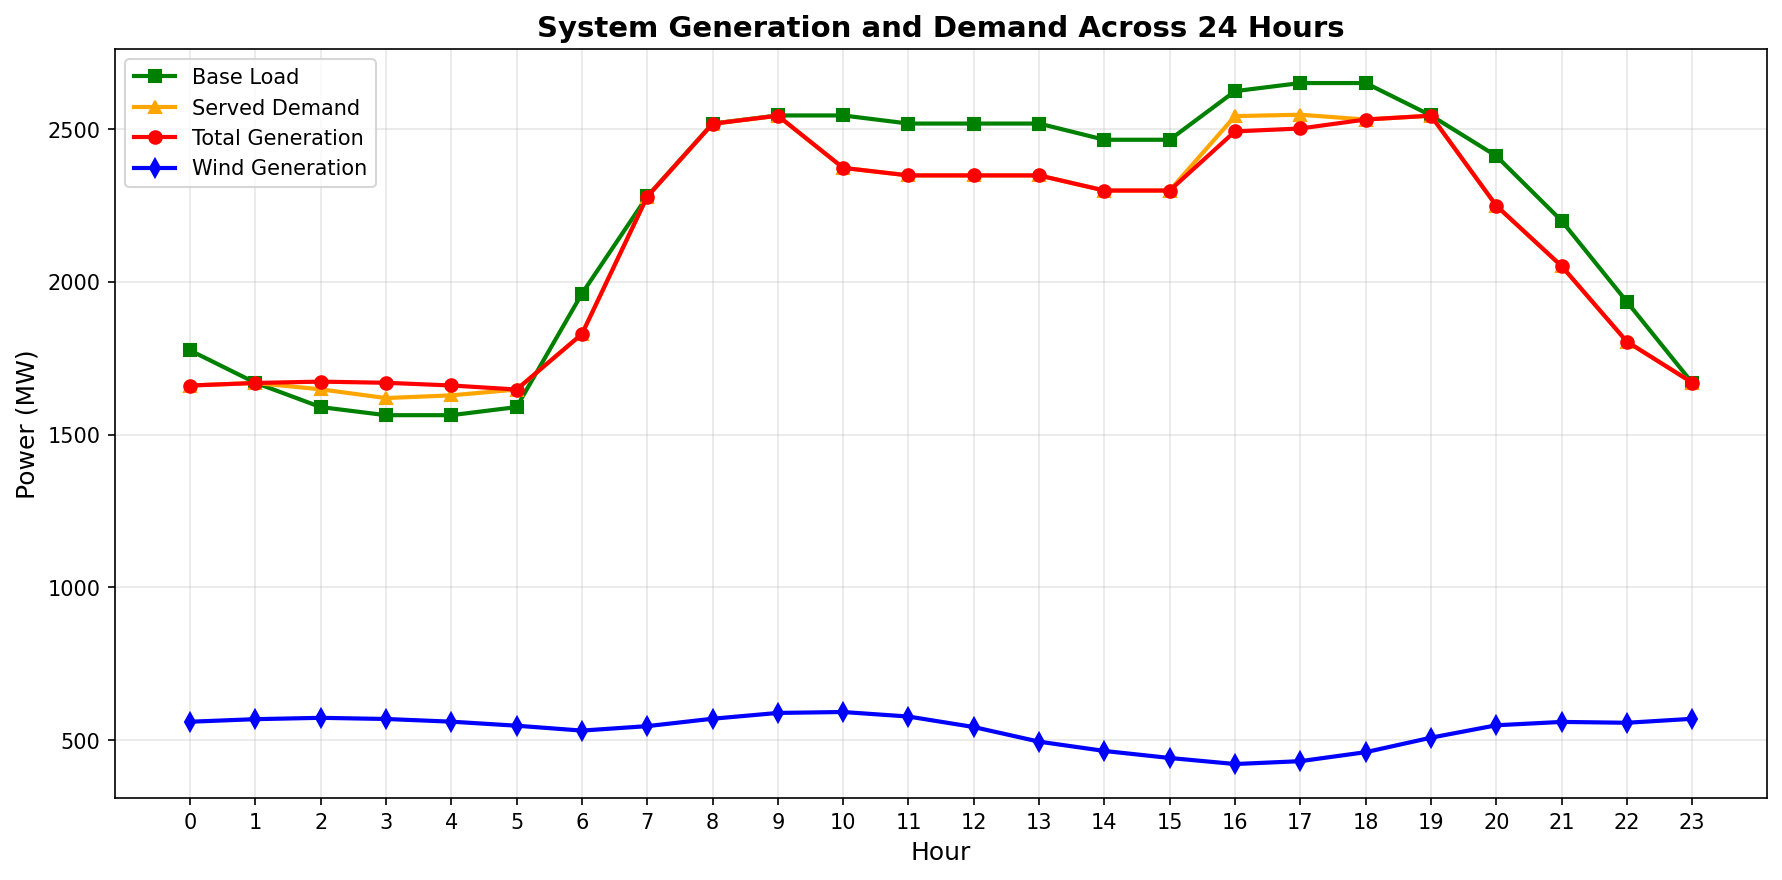
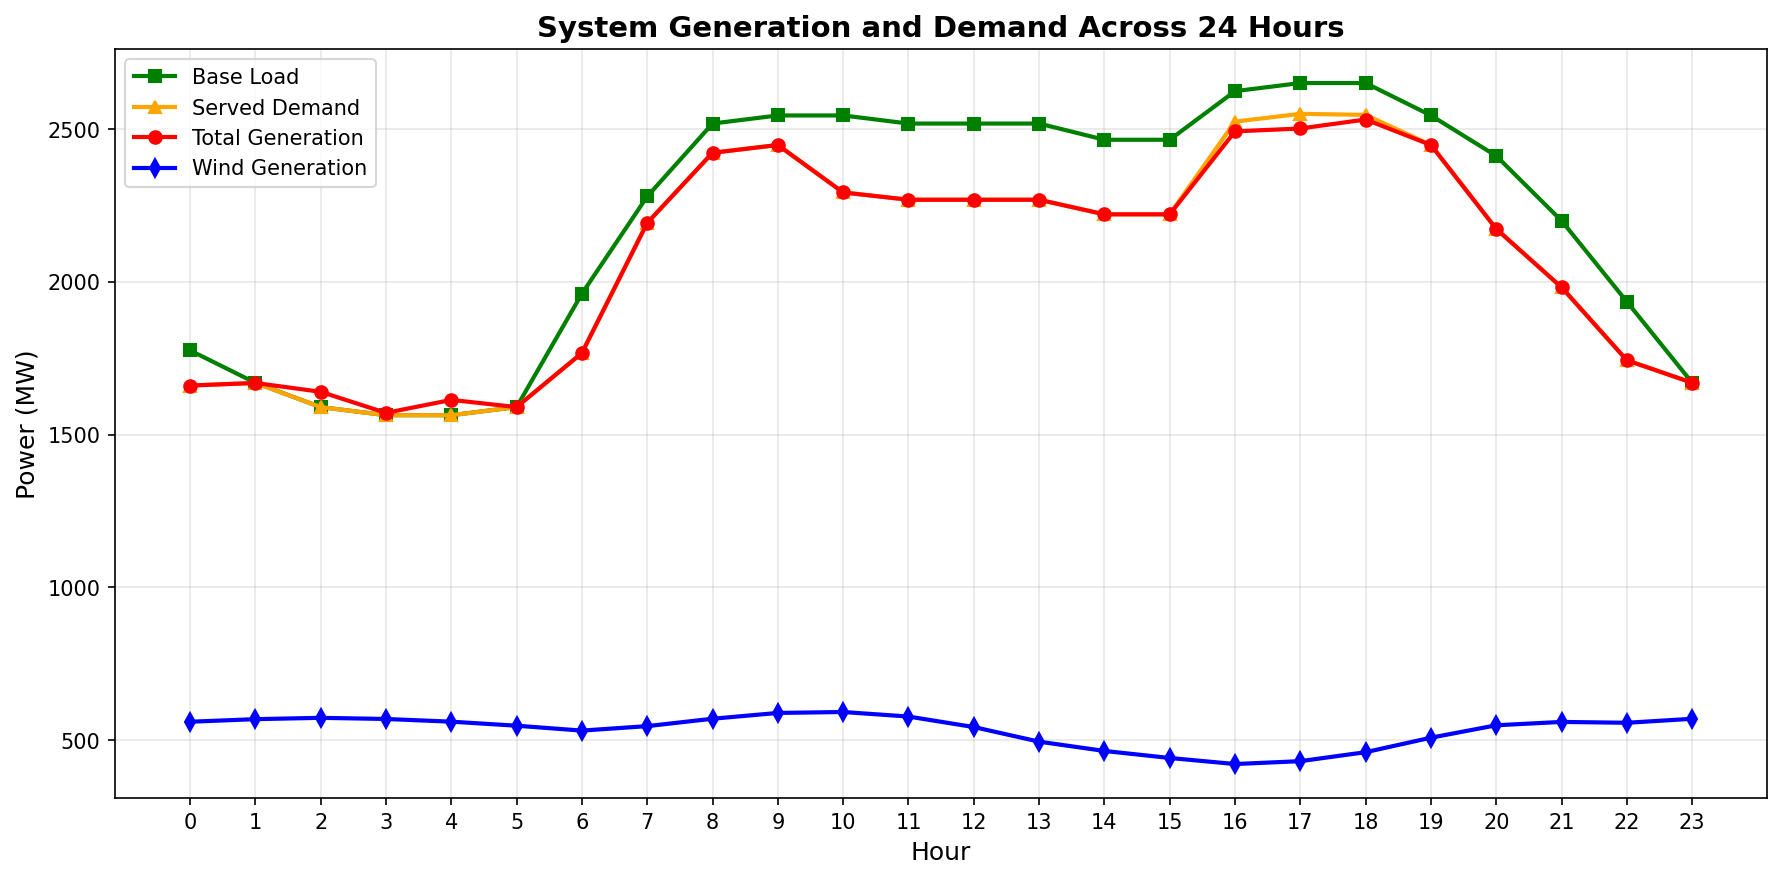
csv files for the outputs of task 1 and 2

diff --git a/Assignment_step2.py b/Assignment_step2.py
@@ -178,7 +178,7 @@ def build_multi_hour_input_data(
             demand_at_node = load_capacity[t] * load_percentages[node]
             if node in elastic_nodes:
                 min_qty = 0
-                max_qty = demand_at_node * 1.10
+                max_qty = demand_at_node
             else:
                 min_qty = demand_at_node
                 max_qty = demand_at_node
@@ -367,7 +367,7 @@ plt.title('Market Clearing Price Across 24 Hours', fontsize=14, fontweight='bold
 plt.grid(True, alpha=0.3)
 plt.xticks(range(TIME_STEPS))
 plt.tight_layout()
-plt.savefig(plots_dir / 'market_clearing_price', dpi=150, bbox_inches='tight')
+plt.savefig(plots_dir / 'market_clearing_price.png', dpi=150, bbox_inches='tight')
 plt.close()
 
 # Plot 2: Generation and demand
@@ -412,4 +412,68 @@ plt.legend()
 plt.xticks(hours_plot)
 plt.tight_layout()
 plt.savefig(plots_dir / 'battery_SOC.png', dpi=150, bbox_inches='tight')
-plt.close()
+plt.close() 
+
+# ── 1. HOURLY RESULTS ───────────────────────────────────────────────────────
+hourly_rows = []
+total_op_cost = 0.0
+
+for t in range(TIME_STEPS):
+    mcp      = multi_hour_model.results.optimal_duals.get(f'balance constraint at hour {t}', 0)
+    served   = sum(multi_hour_model.results.variables.get(f'demand of load {j} at hour {t}', 0) for j in LOADS)
+    gen_conv = sum(multi_hour_model.results.variables.get(f'production of generator {g} at hour {t}', 0) for g in GENERATORS)
+    gen_wind = sum(multi_hour_model.results.variables.get(f'production of generator {g} at hour {t}', 0) for g in WINDTURBINES)
+    charge   = multi_hour_model.results.variables.get(f'battery charge at hour {t}', 0)
+    discharge= multi_hour_model.results.variables.get(f'battery discharge at hour {t}', 0)
+    soc      = multi_hour_model.results.variables.get(f'battery SOC at hour {t}', 0)
+
+    # Operating cost contribution of this hour (conventional only, wind cost = 0)
+    for g in GENERATORS:
+        p   = multi_hour_model.results.variables.get(f'production of generator {g} at hour {t}', 0)
+        total_op_cost += generators_combined['cost'].iloc[g] * p
+
+    hourly_rows.append({
+        'hour'        : t + 1,
+        'MCP_EUR_MWh' : round(mcp,      4),
+        'served_MW'   : round(served,   4),
+        'conv_gen_MW' : round(gen_conv, 4),
+        'wind_MW'     : round(gen_wind, 4),
+        'batt_charge_MW'   : round(charge,    4),
+        'batt_discharge_MW': round(discharge, 4),
+        'batt_SOC_MWh'     : round(soc,       4),
+    })
+
+df_hourly = pd.DataFrame(hourly_rows)
+df_hourly.to_csv(plots_dir /'step2_hourly_results.csv', index=False)
+print("✓ step2_hourly_results.csv saved")
+
+# ── 2. PRODUCER RESULTS (totals over 24h) ──────────────────────────────────
+producer_rows = []
+for g in range(len(generators_combined)):
+    name = generators_combined['id'].iloc[g]
+    cost = generators_combined['cost'].iloc[g]
+    total_prod   = 0.0
+    total_profit = 0.0
+    for t in range(TIME_STEPS):
+        p   = multi_hour_model.results.variables.get(f'production of generator {g} at hour {t}', 0)
+        mcp = multi_hour_model.results.optimal_duals.get(f'balance constraint at hour {t}', 0)
+        total_prod   += p
+        total_profit += (mcp - cost) * p
+    producer_rows.append({
+        'generator'       : name,
+        'total_prod_MWh'  : round(total_prod,   2),
+        'total_profit_EUR': round(total_profit, 2),
+    })
+
+df_producers = pd.DataFrame(producer_rows)
+df_producers.to_csv(plots_dir / 'step2_producer_results.csv', index=False)
+print("✓ step2_producer_results.csv saved")
+
+# ── 3. SUMMARY ──────────────────────────────────────────────────────────────
+social_welfare = multi_hour_model.results.objective_value
+df_summary = pd.DataFrame([{
+    'social_welfare_EUR' : round(social_welfare, 2),
+    'operating_cost_EUR' : round(total_op_cost,  2),
+}])
+df_summary.to_csv(plots_dir / 'step2_summary.csv', index=False)
+print("✓ step2_summary.csv saved")

diff --git a/README.md b/README.md
@@ -1,10 +1,3 @@
-Task 1 missing -> This is per hour
- - print out of The market-clearing price under a uniform pricing scheme-----DONE
- - The total operating cost and social welfare of the system----DONE
- - The profit of each producer, including both conventional units and wind farm----DONE
- - The utility of each demand : Utility = Power Consumption × (Bid Price − Market-Clearing Price)----DONE 
- - Verifiy the KKT conditions --- DONE 
-
  Task 2 missing: 
  - sanity check of everything done 
  - sensitivity analysis (last three bullets of the pdf)
